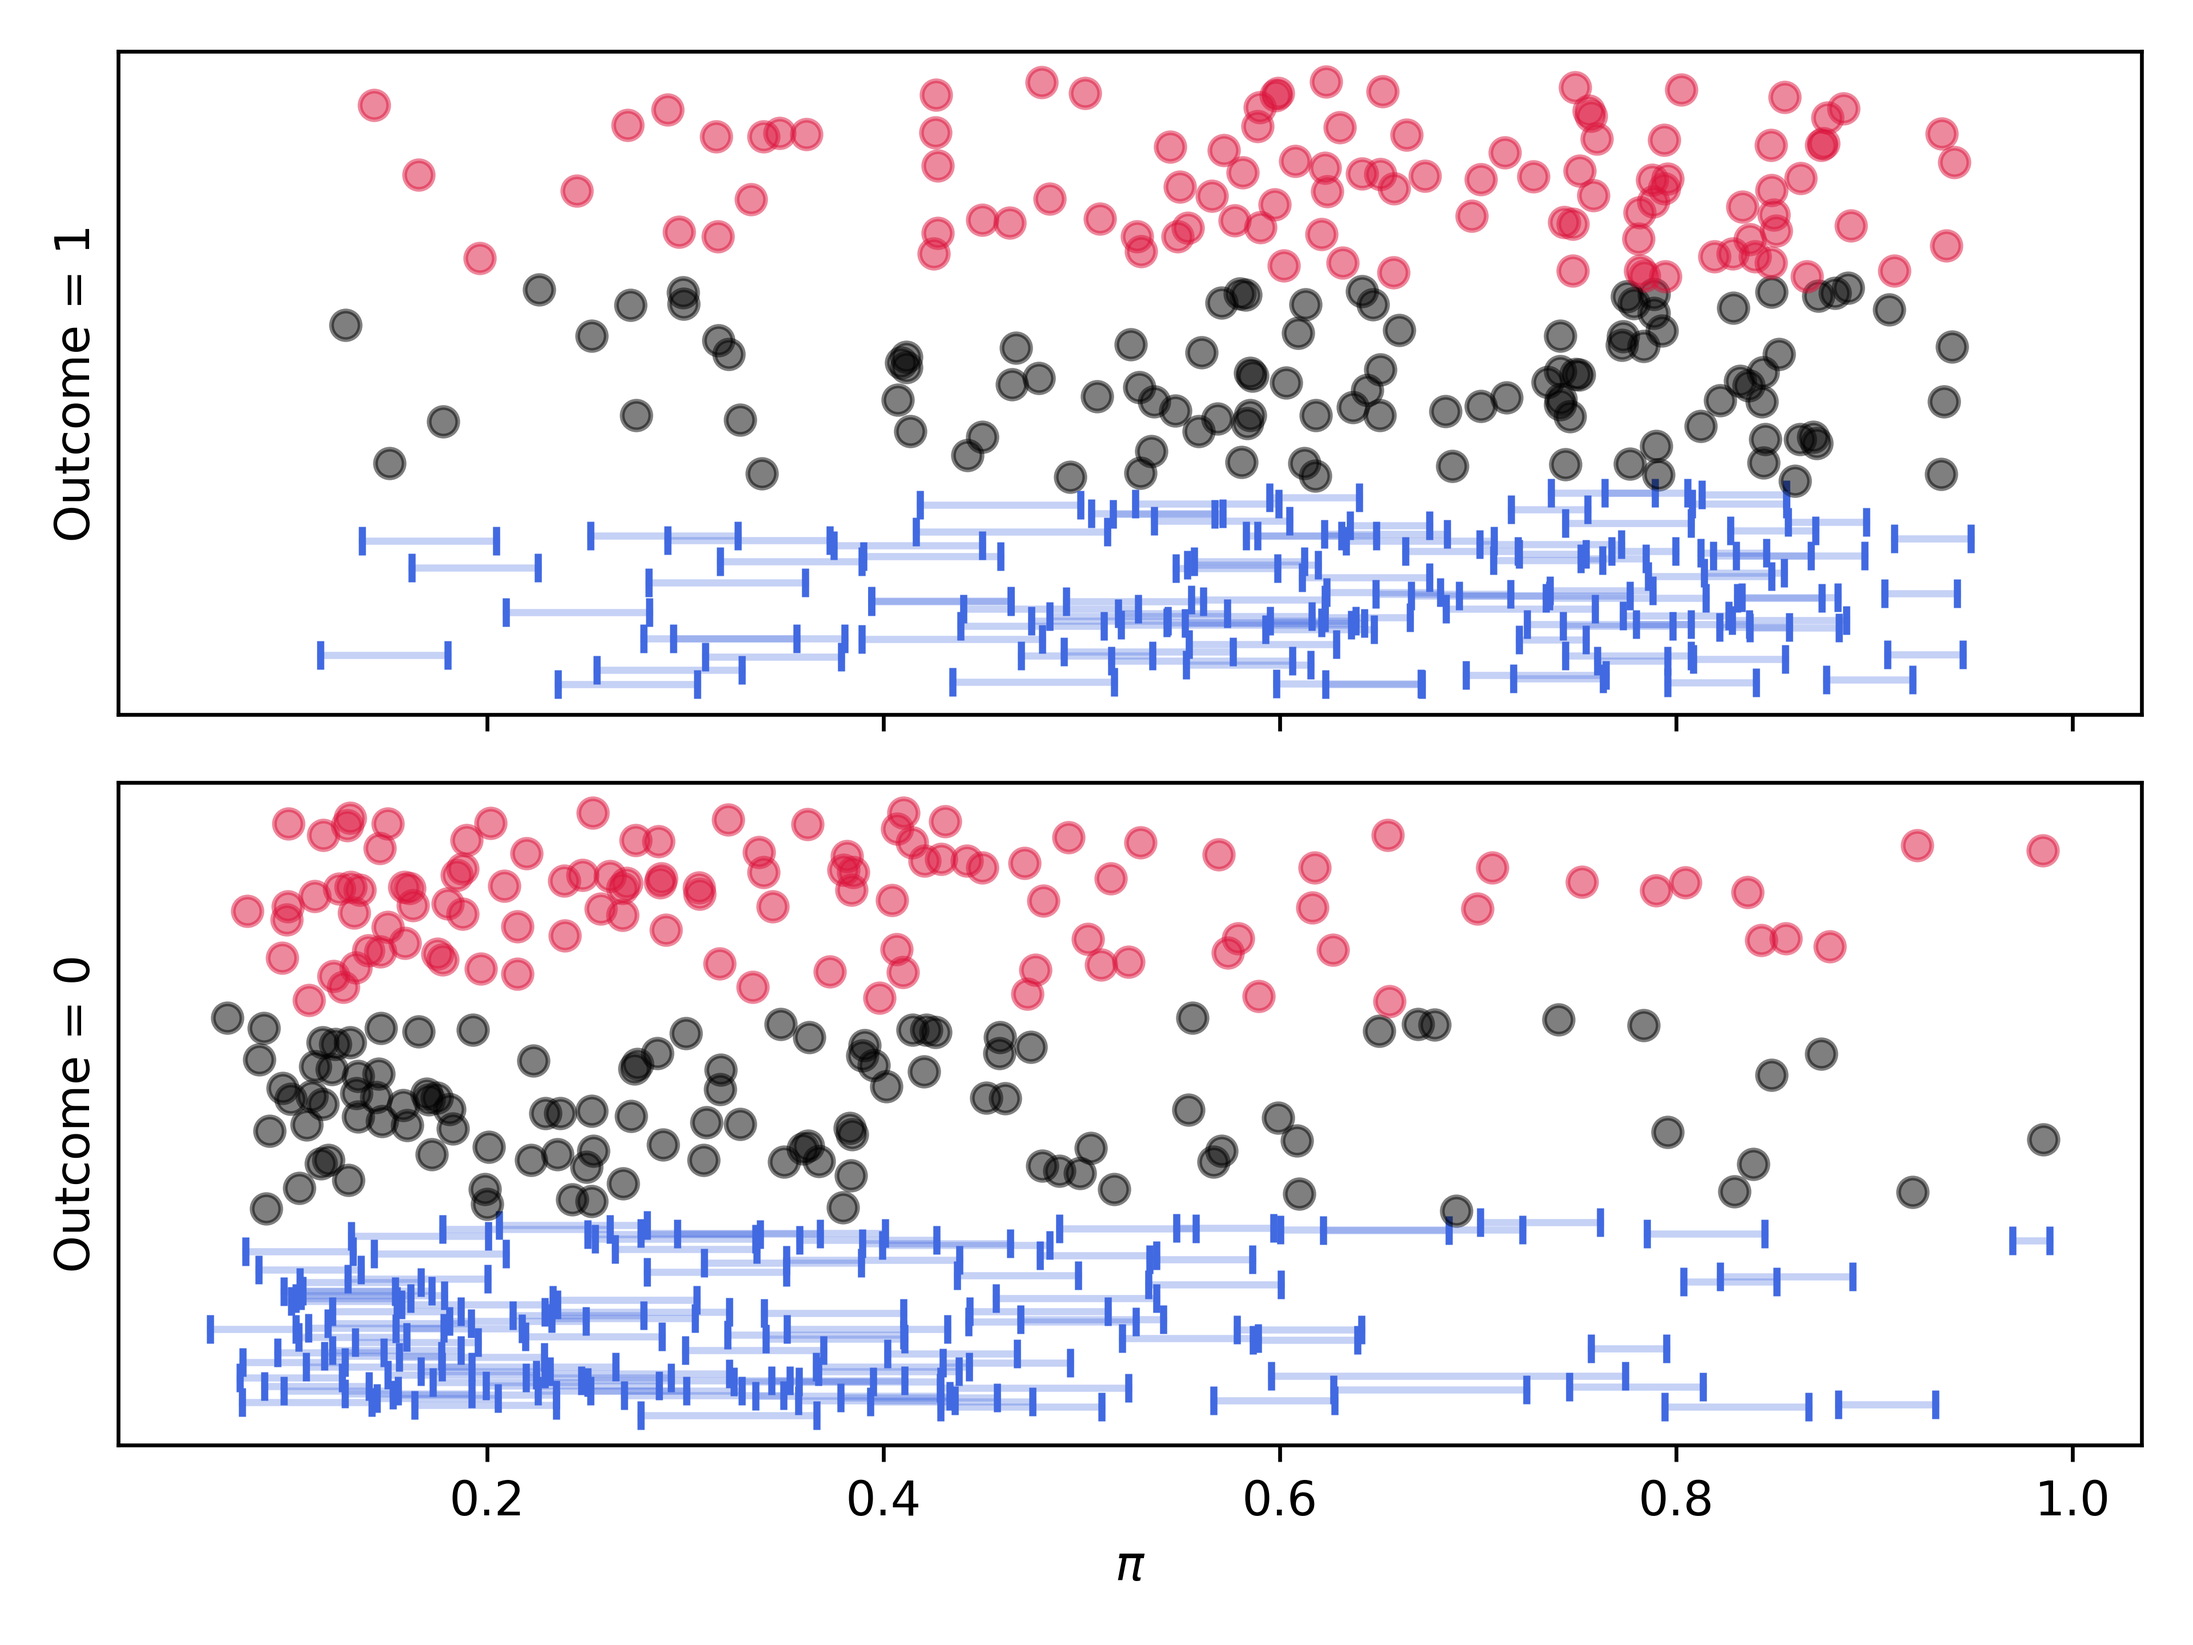
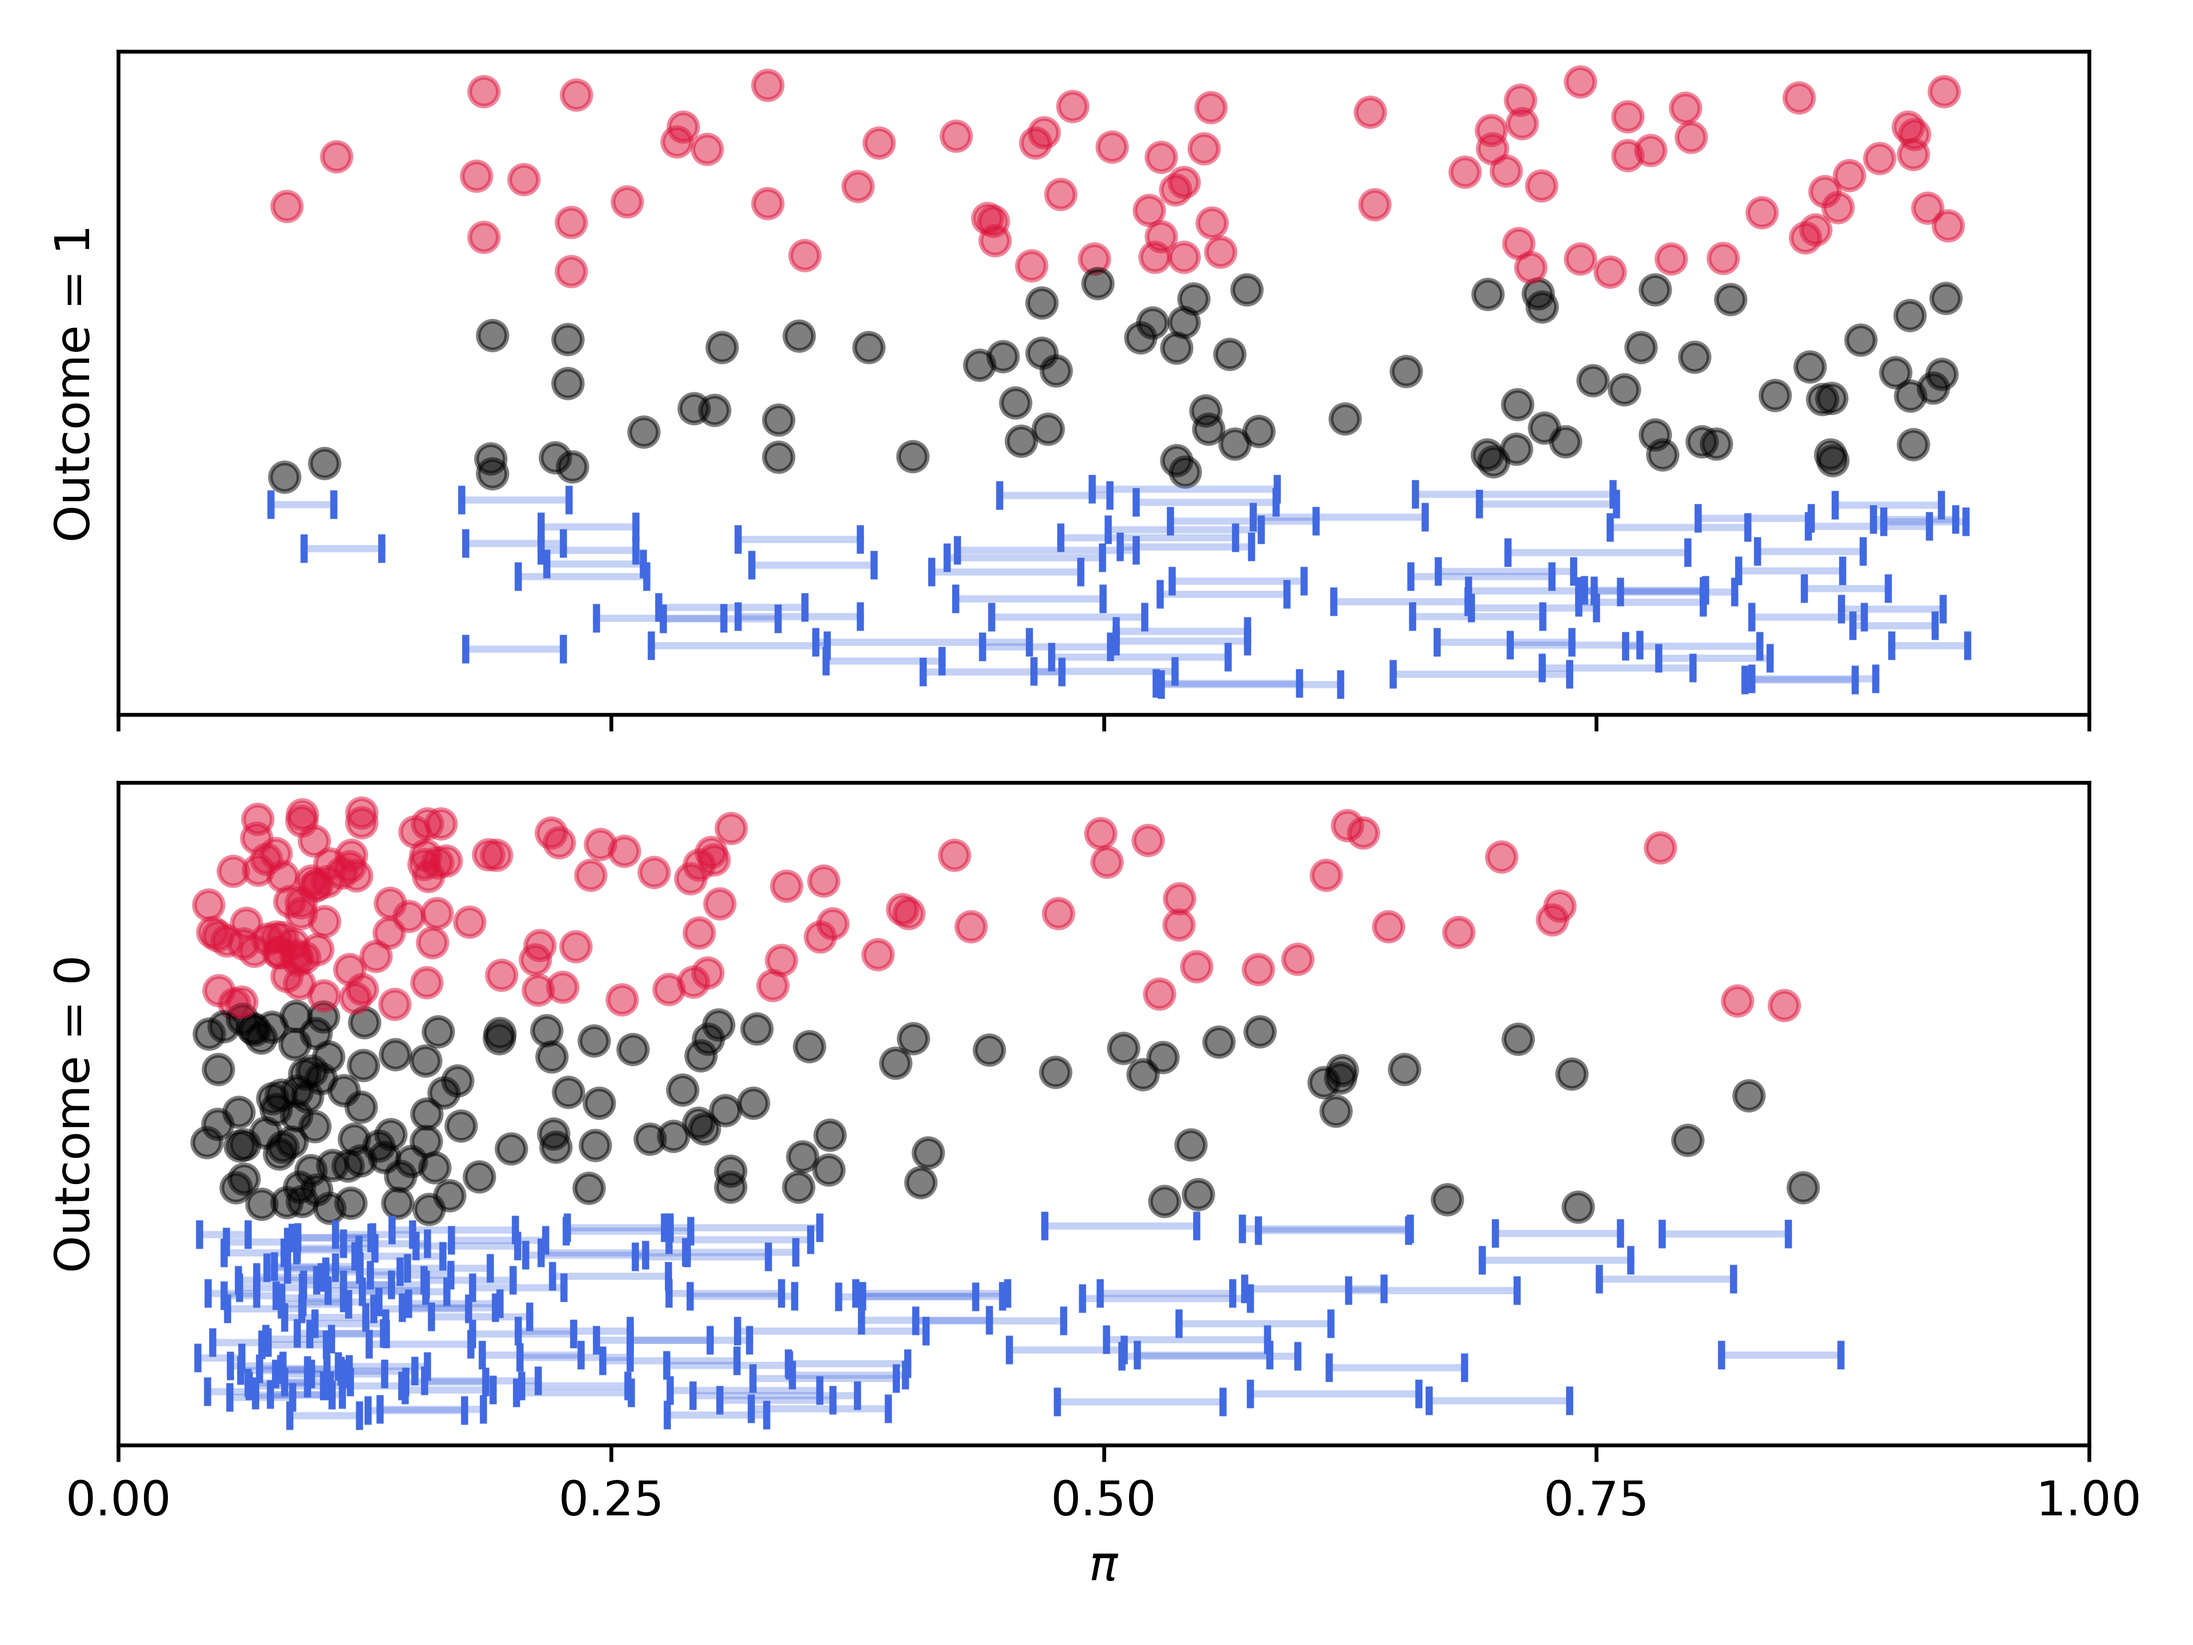
04MAR.01

diff --git a/redwine.py b/redwine.py
@@ -13,26 +13,26 @@ from LRF import *
 wine_data = pd.read_csv('winequality-red.csv',index_col = None,usecols = ['volatile acidity','citric acid','chlorides','pH','sulphates','alcohol','quality'])
 
 # Split the data into test/train factors and result and generate uncertain points
-random.seed(1111) # for reproducability
+random.seed(760) # for reproducability best 587 760
+goodwine = 7 # with with quality >= goodwine is considered high quality
+results = wine_data['quality'] >= goodwine
 
-uq_data_index = random.sample([i for i in wine_data.index if wine_data.loc[i,'quality'] == 6 or wine_data.loc[i,'quality'] == 7], k = 10)
-nuq_data_index = random.sample([i for i in wine_data[wine_data['quality'] <= 6].index if i not in uq_data_index], k = 100) + random.sample([i for i in wine_data[wine_data['quality'] >= 7].index if i not in uq_data_index], k = 100)
-test_data_index = [i for i in wine_data.index if i not in uq_data_index and i not in nuq_data_index]
+train_data_index = random.sample([i for i in wine_data.index if results.loc[i]], k = 75) +  random.sample([i for i in wine_data.index if not results.loc[i]], k = 125)
+train_data = wine_data.loc[train_data_index,[c for c in wine_data.columns if c != 'quality']]
+train_results = results.loc[train_data_index]
 
-uq_data = wine_data.loc[uq_data_index,[c for c in wine_data.columns if c != 'quality']]
-nuq_data = wine_data.loc[nuq_data_index,[c for c in wine_data.columns if c != 'quality']]
-test_data = wine_data.loc[test_data_index,[c for c in wine_data.columns if c != 'quality']]
+uq_data_index = random.sample([i for i in train_data.index if wine_data.loc[i,'quality'] == goodwine], k = 5) + random.sample([i for i in train_data.index if wine_data.loc[i,'quality'] == goodwine-1], k = 5)
+nuq_data_index = [i for i in train_data_index if i not in uq_data_index]
 
-train_data = wine_data.loc[uq_data_index+nuq_data_index,[c for c in wine_data.columns if c != 'quality']]
+uq_data = train_data.loc[uq_data_index]
+nuq_data = train_data.loc[nuq_data_index]
+nuq_results = train_results.loc[nuq_data_index]
 
-nuq_results = wine_data.loc[nuq_data_index,'quality'] >= 7
-train_results = wine_data.loc[train_data.index,'quality'] >= 7
-test_results = wine_data.loc[test_data_index,'quality'] >= 7
 
 ### Fit logistic regression model on full dataset
 base = LogisticRegression(max_iter=1000)
 base.fit(train_data.to_numpy(),train_results.to_numpy())
-print(*zip(train_data.columns,*base.coef_))
+# print(*zip(train_data.columns,*base.coef_))
 ### Fit UQ models
 uq_models = uc_logistic_regression(train_data,train_results,uq_data)
 
@@ -41,25 +41,25 @@ nuq = LogisticRegression(max_iter=1000)
 nuq.fit(nuq_data.to_numpy(),nuq_results.to_numpy())
 
 ### Get confusion matrix
-# Classify test data
-base_predict = base.predict(test_data)
+# Classify train data
+base_predict = base.predict(train_data)
 
 # CLASSIFY NO_UQ MODEL DATA 
-nuq_predict = nuq.predict(test_data)
+nuq_predict = nuq.predict(train_data)
 
 # CLASSIFY UQ MODEL 
-test_predict = pd.DataFrame(columns = uq_models.keys())
+train_predict = pd.DataFrame(columns = uq_models.keys())
 
 for key, model in uq_models.items():
-    test_predict[key] = model.predict(test_data)
+    train_predict[key] = model.predict(train_data)
     
 predictions = []
-for i in test_predict.index:
-    predictions.append([min(test_predict.loc[i]),max(test_predict.loc[i])])
+for i in train_predict.index:
+    predictions.append([min(train_predict.loc[i]),max(train_predict.loc[i])])
 
 with open('runinfo/redwine_cm.out','w') as f:
     print('TRUE MODEL',file = f)
-    a,b,c,d = generate_confusion_matrix(test_results,base_predict)
+    a,b,c,d = generate_confusion_matrix(train_results,base_predict)
     print('TP=%i\tFP=%i\nFN=%i\tTN=%i' %(a,b,c,d),file = f)
 
     # Calculate sensitivity and specificity
@@ -67,7 +67,7 @@ with open('runinfo/redwine_cm.out','w') as f:
     print('Specificity = %.3f' %(d/(b+d)),file = f)
 
     print('DISCARDED DATA MODEL',file = f)
-    aa,bb,cc,dd = generate_confusion_matrix(test_results,nuq_predict)
+    aa,bb,cc,dd = generate_confusion_matrix(train_results,nuq_predict)
     try:
         ss = 1/(1+cc/aa)
     except:
@@ -84,7 +84,7 @@ with open('runinfo/redwine_cm.out','w') as f:
 
     print('UQ MODEL',file = f)
     
-    aaai,bbbi,ccci,dddi = generate_confusion_matrix(test_results,predictions,throw = False)
+    aaai,bbbi,ccci,dddi = generate_confusion_matrix(train_results,predictions,throw = False)
     try:
         sssi = 1/(1+ccci/aaai)
     except:
@@ -98,7 +98,7 @@ with open('runinfo/redwine_cm.out','w') as f:
 
     # Calculate sensitivity and specificity
     print('Sensitivity = [%.3f,%.3f]\nSpecificity = [%.3f,%.3f]' %(*sssi,*ttti),file = f)
-    aaa,bbb,ccc,ddd,eee,fff = generate_confusion_matrix(test_results,predictions,throw = True)
+    aaa,bbb,ccc,ddd,eee,fff = generate_confusion_matrix(train_results,predictions,throw = True)
     try:
         sss = 1/(1+ccc/aaa)
     except:
@@ -137,7 +137,7 @@ for i,(p,u,nuqp,r) in enumerate(zip(predictions,uq_predictions,nuq_predictions,t
         axdens[1].scatter([u[0],u[1]],[yd,yd],color = '#4169E1',marker = '|')
         
         
-axdens[0].set(ylabel = 'Outcome = 1',yticks = [])
+axdens[0].set(ylabel = 'Outcome = 1',yticks = [],xlim=[0,1],xticks = [0,0.25,0.50,0.75,1])
 axdens[1].set(xlabel = '$\pi$',ylabel = 'Outcome = 0',yticks = [])
 densfig.tight_layout()
 

diff --git a/burn1000.py b/burn1000.py
@@ -48,7 +48,7 @@ random.seed(25) # for reproducability
 
 ## Select some data to be intervalised
 binary_cols = ['RACE','FLAME']
-binary_uq ={c: random.sample([i for i in data.index], k = n) for c,n in zip(binary_cols,(50,100))}
+binary_uq ={c: random.sample([i for i in data.index], k = n) for c,n in zip(binary_cols,(50,50))}
 binary_index = {i for i in it.chain(*binary_uq.values())}
 eps = {
     #    "AGE":(1,'u',0,(0,np.inf)),
@@ -93,64 +93,64 @@ predictions = []
 for i in train_predict.index:
     predictions.append([min(train_predict.loc[i]),max(train_predict.loc[i])])
 
-# with open('runinfo/burn1000_cm.out','w') as f:
-#     print('TRUE MODEL',file = f)
-#     a,b,c,d = generate_confusion_matrix(results,base_predict)
-#     print('TP=%i\tFP=%i\nFN=%i\tTN=%i' %(a,b,c,d),file = f)
+with open('runinfo/burn1000_cm.out','w') as f:
+    print('TRUE MODEL',file = f)
+    a,b,c,d = generate_confusion_matrix(results,base_predict)
+    print('TP=%i\tFP=%i\nFN=%i\tTN=%i' %(a,b,c,d),file = f)
 
-#     # Calculate sensitivity and specificity
-#     print('Sensitivity = %.3f' %(a/(a+c)),file = f)
-#     print('Specificity = %.3f' %(d/(b+d)),file = f)
+    # Calculate sensitivity and specificity
+    print('Sensitivity = %.3f' %(a/(a+c)),file = f)
+    print('Specificity = %.3f' %(d/(b+d)),file = f)
 
-#     print('DISCARDED DATA MODEL',file = f)
-#     aa,bb,cc,dd = generate_confusion_matrix(results,nuq_predict)
-#     try:
-#         ss = 1/(1+cc/aa)
-#     except:
-#         ss = None
-#     try:    
-#         tt = 1/(1+bb/dd)
-#     except:
-#         tt = None
-#     print('TP=%s\tFP=%s\nFN=%s\tTN=%s' %(aa,bb,cc,dd),file = f)
+    print('DISCARDED DATA MODEL',file = f)
+    aa,bb,cc,dd = generate_confusion_matrix(results,nuq_predict)
+    try:
+        ss = 1/(1+cc/aa)
+    except:
+        ss = None
+    try:    
+        tt = 1/(1+bb/dd)
+    except:
+        tt = None
+    print('TP=%s\tFP=%s\nFN=%s\tTN=%s' %(aa,bb,cc,dd),file = f)
 
-#     # Calculate sensitivity and specificity
-#     print('Sensitivity = %.3f' %(ss),file = f)
-#     print('Specificity = %.3f' %(tt),file = f)
+    # Calculate sensitivity and specificity
+    print('Sensitivity = %.3f' %(ss),file = f)
+    print('Specificity = %.3f' %(tt),file = f)
     
-#     print('UQ MODEL',file = f)
+    print('UQ MODEL',file = f)
     
-#     aaai,bbbi,ccci,dddi = generate_confusion_matrix(results,predictions,throw = False)
-#     print(aaai,bbbi,ccci,dddi)
-#     try:
-#         sssi = 1/(1+ccci/aaai)
-#     except:
-#         sssi = None
-#     try:    
-#         ttti = 1/(1+bbbi/dddi)
-#     except:
-#         ttti = None
+    aaai,bbbi,ccci,dddi = generate_confusion_matrix(results,predictions,throw = False)
+    print(aaai,bbbi,ccci,dddi)
+    try:
+        sssi = 1/(1+ccci/aaai)
+    except:
+        sssi = None
+    try:    
+        ttti = 1/(1+bbbi/dddi)
+    except:
+        ttti = None
         
-#     print('TP=%s\tFP=%s\nFN=%s\tTN=%s' %(aaai,bbbi,ccci,dddi),file = f)
+    print('TP=%s\tFP=%s\nFN=%s\tTN=%s' %(aaai,bbbi,ccci,dddi),file = f)
 
-#     # Calculate sensitivity and specificity
-#     print('Sensitivity = [%.3f,%.3f]\nSpecificity = [%.3f,%.3f]' %(*sssi,*ttti),file = f)
+    # Calculate sensitivity and specificity
+    print('Sensitivity = [%.3f,%.3f]\nSpecificity = [%.3f,%.3f]' %(*sssi,*ttti),file = f)
 
-#     aaa,bbb,ccc,ddd,eee,fff = generate_confusion_matrix(results,predictions,throw = True)
-#     try:
-#         sss = 1/(1+ccc/aaa)
-#     except:
-#         sss = None
-#     try:    
-#         ttt = 1/(1+bbb/ddd)
-#     except:
-#         ttt = None
+    aaa,bbb,ccc,ddd,eee,fff = generate_confusion_matrix(results,predictions,throw = True)
+    try:
+        sss = 1/(1+ccc/aaa)
+    except:
+        sss = None
+    try:    
+        ttt = 1/(1+bbb/ddd)
+    except:
+        ttt = None
         
-#     print('TP=%i\tFP=%i\nFN=%i\tTN=%i\nNP(+)=%i\tNP(-)=%i' %(aaa,bbb,ccc,ddd,eee,fff),file = f)
+    print('TP=%i\tFP=%i\nFN=%i\tTN=%i\nNP(+)=%i\tNP(-)=%i' %(aaa,bbb,ccc,ddd,eee,fff),file = f)
 
-#     # Calculate sensitivity and specificity
-#     print('Sensitivity = %.3f' %(sss),file = f)
-#     print('Specificity = %.3f' %(ttt),file = f)
+    # Calculate sensitivity and specificity
+    print('Sensitivity = %.3f' %(sss),file = f)
+    print('Specificity = %.3f' %(ttt),file = f)
 
 ### Descriminatory Performance Plots
 s,fpr,predictions = ROC(model = base, data = train_data, results = results)

diff --git a/biased_UC.py b/biased_UC.py
@@ -1,0 +1,103 @@
+import numpy as np
+import pandas as pd
+from matplotlib import pyplot as plt
+from mpl_toolkits import mplot3d
+from sklearn.linear_model import LogisticRegression
+import itertools as it
+from tqdm import tqdm
+import pba
+import random
+
+
+from LRF import *
+
+
+def generate_results(data):
+    # set seed for reproducability
+    np.random.seed(10)
+    results = pd.Series(index = data.index, dtype = 'bool')
+    
+    for i in data.index:
+
+        results.loc[i] = 0.5*np.cos(np.pi/6 * data.loc[i,0]) + 0.5 >= np.random.rand()
+        
+    return results
+
+
+### Generate Data
+# set seed for reproducability
+np.random.seed(258)
+
+# Params
+some = 50 # training datapoints
+
+data = pd.DataFrame(10*np.random.rand(some,1))
+results = generate_results(data)
+
+### Fit logistic regression model on full dataset
+base = LogisticRegression()
+base.fit(data.to_numpy(),results.to_numpy())
+
+### Remove uncertain datapoints from the training data
+few = 5 #uncertain points
+random.seed(1) # for reproducability
+uq_data_index = random.sample([i for i in data.index if data.loc[i,0] >= 7], k = few) # clustered around end
+
+uq_data = data.loc[uq_data_index]
+nuq_data = data.loc[[i for i in data.index if i not in uq_data_index]]
+nuq_results = results.loc[[i for i in data.index if i not in uq_data_index]]
+
+### Fit UQ models
+uq_models = uc_logistic_regression(data,results,uq_data)
+
+### Fit models with missing data
+nuq = LogisticRegression()
+nuq.fit(nuq_data.to_numpy(),nuq_results.to_numpy())
+
+### Plot results
+steps = 300
+lX = np.linspace(0,10,steps)
+lY = base.predict_proba(lX.reshape(-1, 1))[:,1]
+lYn = nuq.predict_proba(lX.reshape(-1, 1))[:,1]
+
+plt.xlabel('$x$')
+plt.ylabel('$\pi_x$')
+plt.scatter(nuq_data,nuq_results,color='grey',zorder=10)
+plt.plot(lX,lYn,color='#DC143C',zorder=10,lw=2,label = 'No UQ')
+
+plt.plot(lX,lY,color='k',zorder=10,lw=2,label = 'Truth')
+for i in uq_data_index:
+
+    plt.plot([uq_data.loc[i],uq_data.loc[i]],[0,1],color='grey')
+    plt.scatter(uq_data.loc[i],results.loc[i],marker = 'd',color = 'darkgreen',zorder = 14)
+
+lYmin = np.ones(steps)
+lYmax = np.zeros(steps)
+
+for n, model in uq_models.items():
+    lY = model.predict_proba(np.linspace(0,10,steps).reshape(-1, 1))[:,1]
+    lYmin = [min(i,j) for i,j in zip(lY,lYmin)]
+    lYmax = [max(i,j) for i,j in zip(lY,lYmax)]
+    # plt.plot(lX,lY,color = 'grey',alpha = 0.2,lw = 0.5) 
+
+plt.plot(lX,lYmax,color='#4169E1',lw=2)
+plt.plot(lX,lYmin,color='#4169E1',lw=2,label = 'Uncertainty Bounds')
+
+plt.savefig('../paper/figs/biased_UC.png',dpi = 600)
+plt.savefig('figs/biased_UC.png',dpi = 600)
+
+plt.clf()
+
+
+### Hosmer-Lemeshow
+hl_b, pval_b = hosmer_lemeshow_test(base,data,results,g = 10)
+
+hl_nuq, pval_nuq = hosmer_lemeshow_test(nuq,nuq_data,nuq_results,g = 10)
+   
+hl_uq, pval_uq = UQ_hosmer_lemeshow_test(uq_models,data,results,g = 10)
+
+with open('runinfo/biased_UC_HL.out','w') as f:
+    print('base\nhl = %.3f, p = %.3f' %(hl_b,pval_b),file = f)
+    print('no UQ\nhl = %.3f, p = %.3f' %(hl_nuq,pval_nuq),file = f) 
+
+    print('UQ\nhl = [%.3f,%.3f], p = [%.3f,%.3f]' %(*hl_uq,*pval_uq),file = f) 
